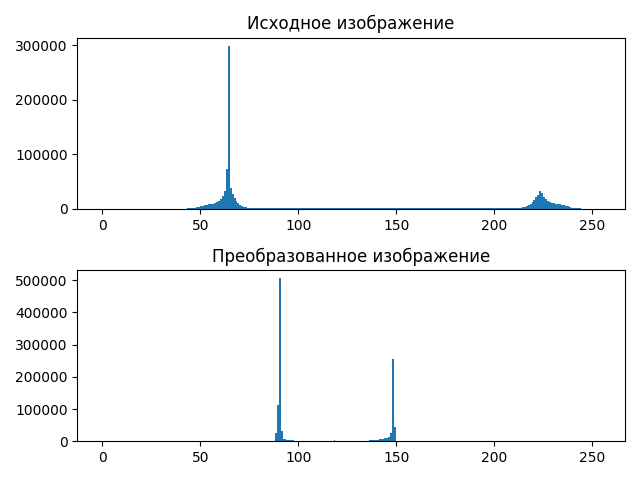
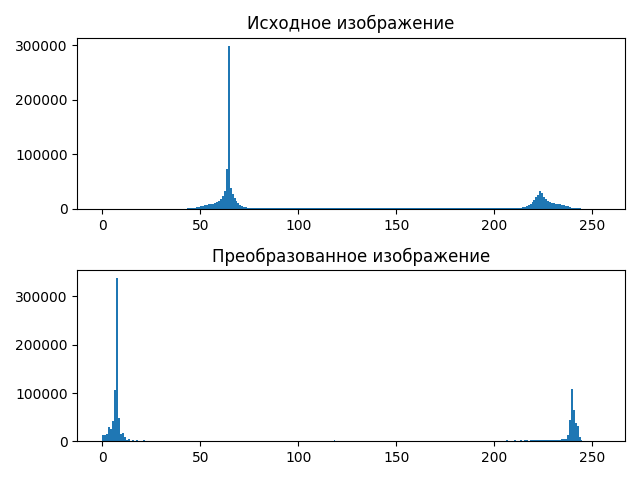
Add changes for oboi.

diff --git a/laba8/README.md b/laba8/README.md
@@ -51,9 +51,9 @@ LUN (contrasted): 2160.9824011652677
 ![](results/haralik/oboi.png)
 
 ### Признаки
-CON: 18512023137.52082
+CON: 3981144.1149413614
 
-LUN: 39902.956713681466
+LUN: 498.51908649458375
 
 ### Гистограммы
 ![](results/histograms/oboi.png)
@@ -65,10 +65,9 @@ LUN: 39902.956713681466
 ![](results/haralik_contrasted/oboi.png)
 
 ### Контрастированные признаки
-CON (contrasted): 1882853324.08779
+CON (contrasted): 8137120.671267983
 
-LUN (contrasted): 15910.17468639537
-
+LUN (contrasted): 408.7027770180322
 ##  Изображение поверхности Солнца
 ### Исходное:
 
